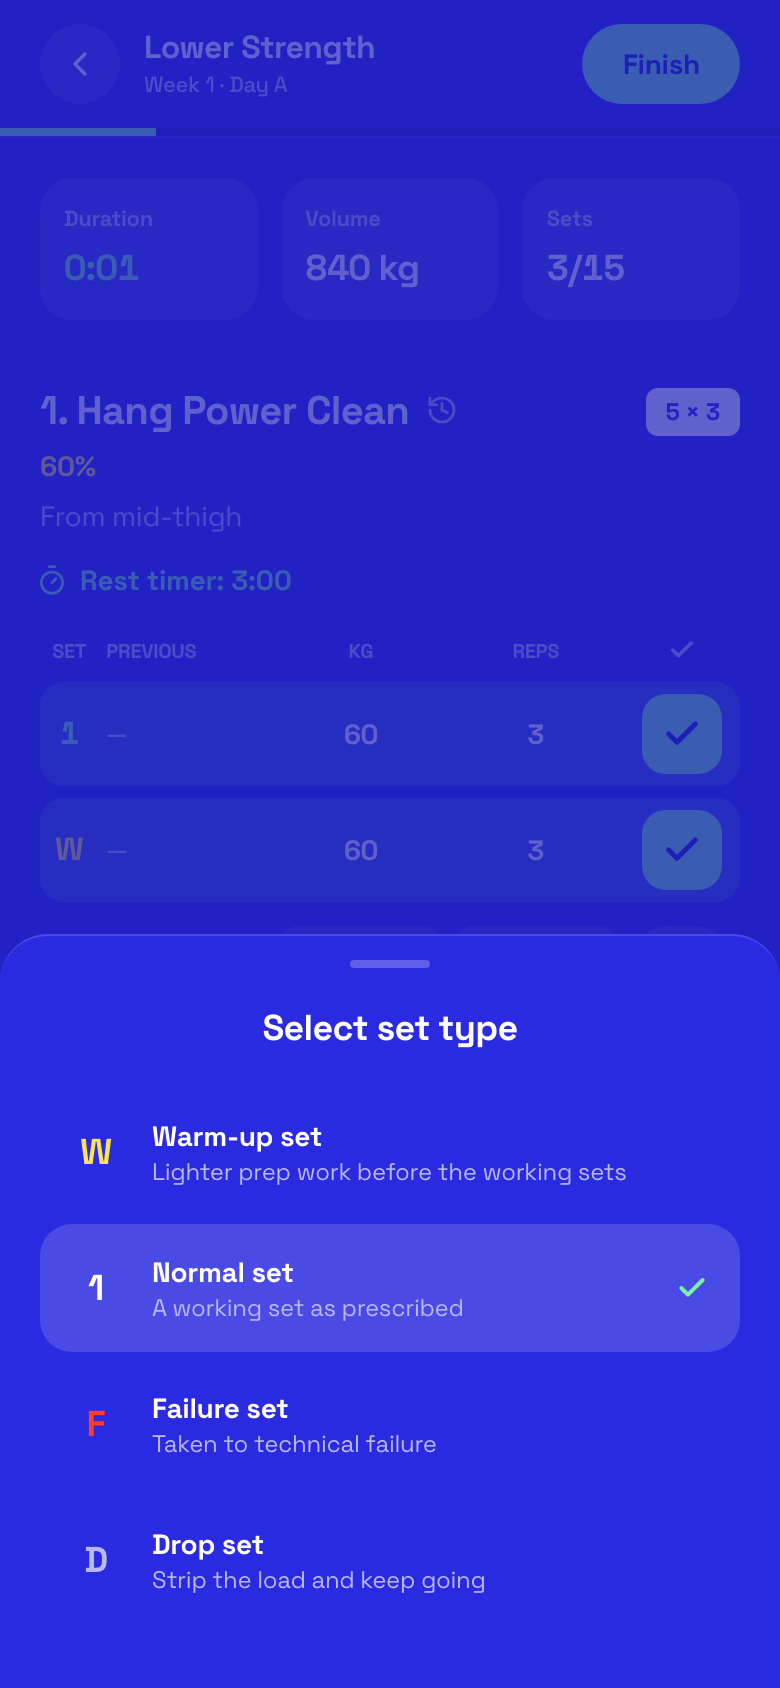
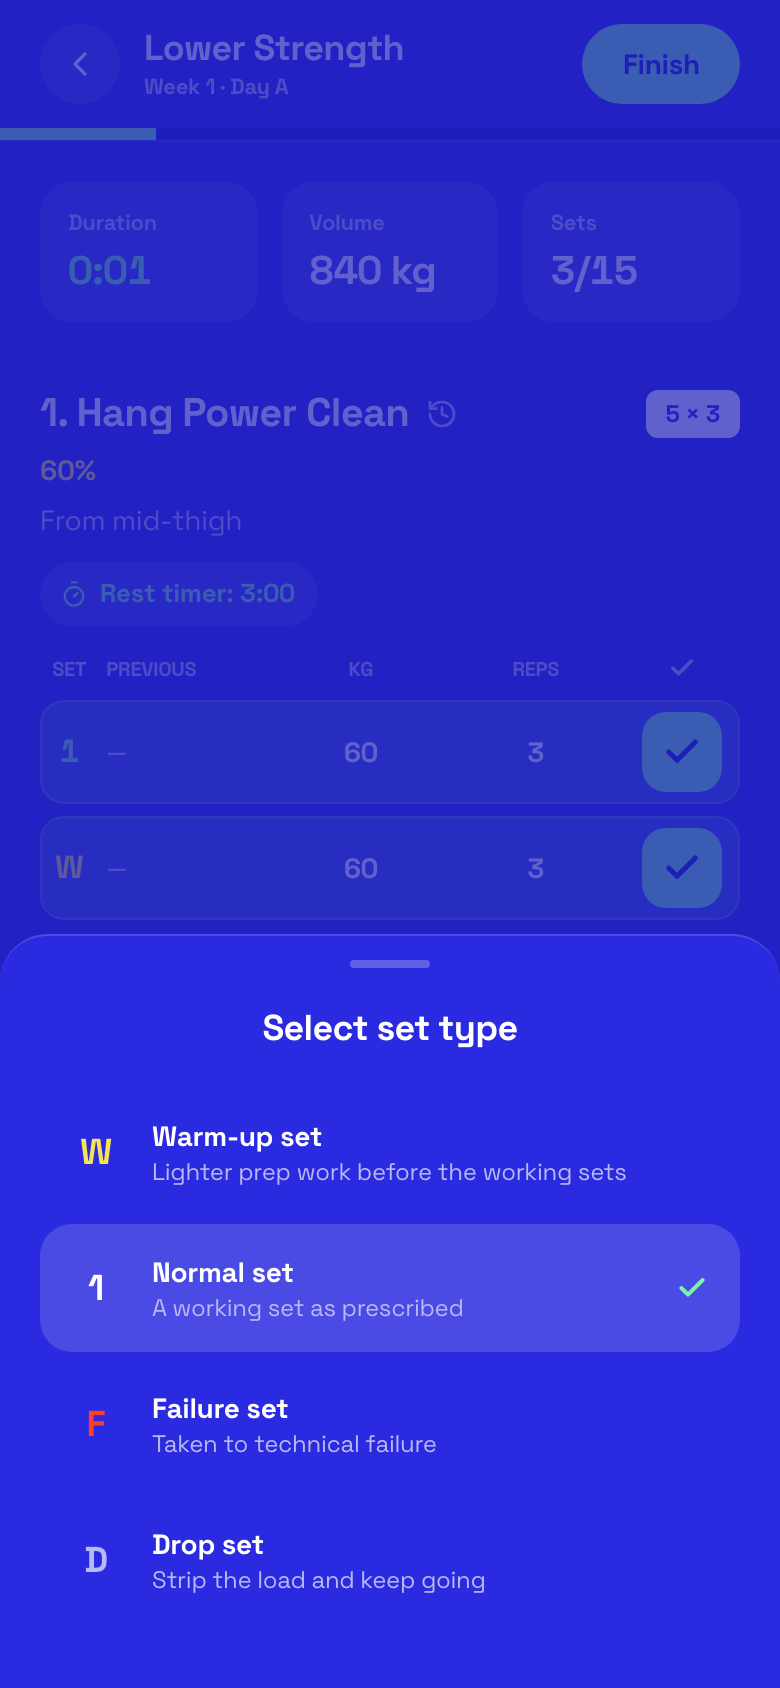
V3: workout session — won blind A/B, all criteria met
V3 workout session polish — surgical className-only changes to WorkoutPage.tsx, verified against docs/gauntlet/shots/pre/v3-workout.png vs docs/gauntlet/shots/cand-v3-r1/v3-workout.png.

Changes (all in src/pages/WorkoutPage.tsx):
1. Sticky header: title bumped to text-lg (was base) for confident hierarchy; week/day meta made font-bold to match the 0.6875rem meta idiom used on other pages; header

diff --git a/src/pages/WorkoutPage.tsx b/src/pages/WorkoutPage.tsx
@@ -272,10 +272,10 @@ export default function WorkoutPage() {
             <ChevronLeft className="w-5 h-5" />
           </button>
           <div className="min-w-0 flex-1">
-            <h1 className="font-bold tracking-[-0.02em] leading-tight truncate">
+            <h1 className="text-lg font-bold tracking-[-0.02em] leading-tight truncate">
               {day.title.split(': ')[1] || day.title}
             </h1>
-            <p className="text-[0.6875rem] font-medium text-mist">
+            <p className="text-[0.6875rem] font-bold text-mist">
               Week {weekNum} · Day {day.title.split(':')[0].replace('Day ', '')}
             </p>
           </div>
@@ -287,7 +287,7 @@ export default function WorkoutPage() {
           </button>
         </div>
         {/* header progress bar */}
-        <div className="h-1 bg-court-deep">
+        <div className="h-1.5 bg-court-deep">
           <div
             className="h-full bg-mint transition-all duration-500"
             style={{ width: `${progress.percentage}%` }}
@@ -676,7 +676,7 @@ const Stat: React.FC<{ label: string; value: string; accent?: string; pop?: bool
   accent,
   pop,
 }) => (
-  <div className="bg-white/10 rounded-2xl px-3 py-3">
+  <div className="bg-white/10 rounded-2xl px-3.5 py-3">
     <p className="text-[0.6875rem] font-bold text-mist">{label}</p>
     {pop ? (
       <motion.p
@@ -684,12 +684,12 @@ const Stat: React.FC<{ label: string; value: string; accent?: string; pop?: bool
         initial={{ scale: 1.25 }}
         animate={{ scale: 1 }}
         transition={{ type: 'spring', stiffness: 500, damping: 22 }}
-        className={cn('text-lg font-bold tabular-nums tracking-[-0.02em] mt-0.5 origin-left', accent)}
+        className={cn('text-xl font-bold tabular-nums tracking-[-0.02em] leading-snug mt-0.5 origin-left', accent)}
       >
         {value}
       </motion.p>
     ) : (
-      <p className={cn('text-lg font-bold tabular-nums tracking-[-0.02em] mt-0.5', accent)}>{value}</p>
+      <p className={cn('text-xl font-bold tabular-nums tracking-[-0.02em] leading-snug mt-0.5', accent)}>{value}</p>
     )}
   </div>
 );
@@ -759,14 +759,14 @@ const ExerciseSection: React.FC<{
           hapticTap();
           onConfigureRest();
         }}
-        className="flex items-center gap-1.5 text-sm font-bold text-mint py-1.5 -ml-0.5 hover:opacity-80 transition-opacity"
+        className="inline-flex items-center gap-1.5 bg-white/10 hover:bg-white/15 rounded-full pl-2.5 pr-3 py-1.5 mt-1.5 text-[0.8125rem] font-bold text-mint tabular-nums transition-colors"
       >
-        <Timer className="w-4 h-4" />
+        <Timer className="w-3.5 h-3.5" />
         Rest timer: {restSec === 0 ? 'Off' : formatElapsed(restSec)}
       </button>
 
       {/* Table header */}
-      <div className="grid grid-cols-12 gap-2 mt-3 mb-2 px-1 text-[0.625rem] font-bold text-mist uppercase text-center">
+      <div className="grid grid-cols-12 gap-2 mt-3.5 mb-2 px-1 text-[0.625rem] font-bold text-mist uppercase text-center">
         <div className="col-span-1">Set</div>
         <div className={cn('text-left', tracking === 'weighted' ? 'col-span-3' : 'col-span-4')}>Previous</div>
         {tracking === 'weighted' && <div className="col-span-3">kg</div>}
@@ -797,7 +797,7 @@ const ExerciseSection: React.FC<{
               key={setIndex}
               className={cn(
                 'grid grid-cols-12 gap-2 items-center px-1 py-1.5 rounded-xl transition-colors',
-                log.completed && 'bg-mint/20'
+                log.completed && 'bg-mint/20 ring-1 ring-inset ring-mint/25'
               )}
             >
               <button
